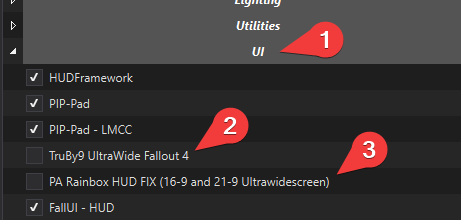
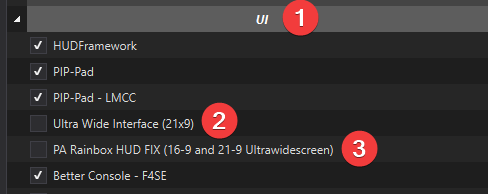
update for v0.6.1 release

diff --git a/Changelog.md b/Changelog.md
@@ -916,3 +916,36 @@ The issue with the M249 Para is unfixable as the animations for it are made with
    1. You'll need to reapply the MCM settings for this
 3. Tweaked the night brightness of the Quantum Horizons ENB
 4. Added Swagmeisters V for Valkyrie Bodyslide preset
+
+## Wasteland of Depravity v0.6.1
+1. Packaged the following mods into BA2 archives to try help the stuttering in game
+   1. Vtaw Wardrobe 6 Materials
+   2. Vtaw Wardrobe 7 Materials
+   3. Vtaw Wardrobe 8 Materials
+   4. Vtaw Utility Pack
+   5. Splashzones NSFW Texture Mashup AIO
+   6. Danks Mags
+   7. Nuka Cola Girl Bottles
+   8. Nuka Cola Girl Bottle for Nuka-World 
+2. Unpacked the following mods because WoD is hanging dangerously close to the BA2 limit
+   1. AAF Themes for both profiles
+   2. Basement Living
+   3. Dynamic Guard Mats
+   4. Dynamic Store Mats
+   5. Fenway Flat
+   6. Hands Off
+   7. Legendary Radroach Fix
+   8. PenPos
+   9. Persistent Volume Sliders
+   10. Canary Save File Monitor
+   11. Atom Cats Drag Race Start Fix
+   12. Jinga C Bodysuit
+   13. Settlement Tidy Bot
+3. Updated Better Goodneighbor - Precombined Visibility Patches to the v69-1.0 version
+4. Updated BodyTalk 3 to the v3.8 Nexus release
+5. Updated AAF Sex Harassment to v1.18.3
+6. Updated ZeX-ZBG to v1.3
+7. Removed Random Overlay Framework
+8. Removed CBBE Pubic Hair Overlays
+9. Removed Truby Widescreen stuff
+10. Added Ultra Wide Interface (21x9)

diff --git a/README.md b/README.md
@@ -138,7 +138,7 @@ Done! You should now have a shortcut on your desktop which you can now run the m
 
 My thanks for Swagmeister for figuring this out!
 
-There are a couple of UI mods that allow for Ultrawide resolution support. I don't have an Ultrawide monitor myself, so I can't be 100% sure if this fixes every UI element. To enable Ultrawide support, open the `UI` separator in MO2, and activate `TruBy9 Ultrawide Fallout 4` and `No Rainbox - 21-0 Rainbox Fix`.
+There are a couple of UI mods that allow for Ultrawide resolution support. I don't have an Ultrawide monitor myself, so I can't be 100% sure if this fixes every UI element. To enable Ultrawide support, open the `UI` separator in MO2, and activate `Ultra Wide Interface (21x9)` and `No Rainbox - 21-0 Rainbox Fix`.
 
 ![Ultrawide](img/UWMO2.png)
 
